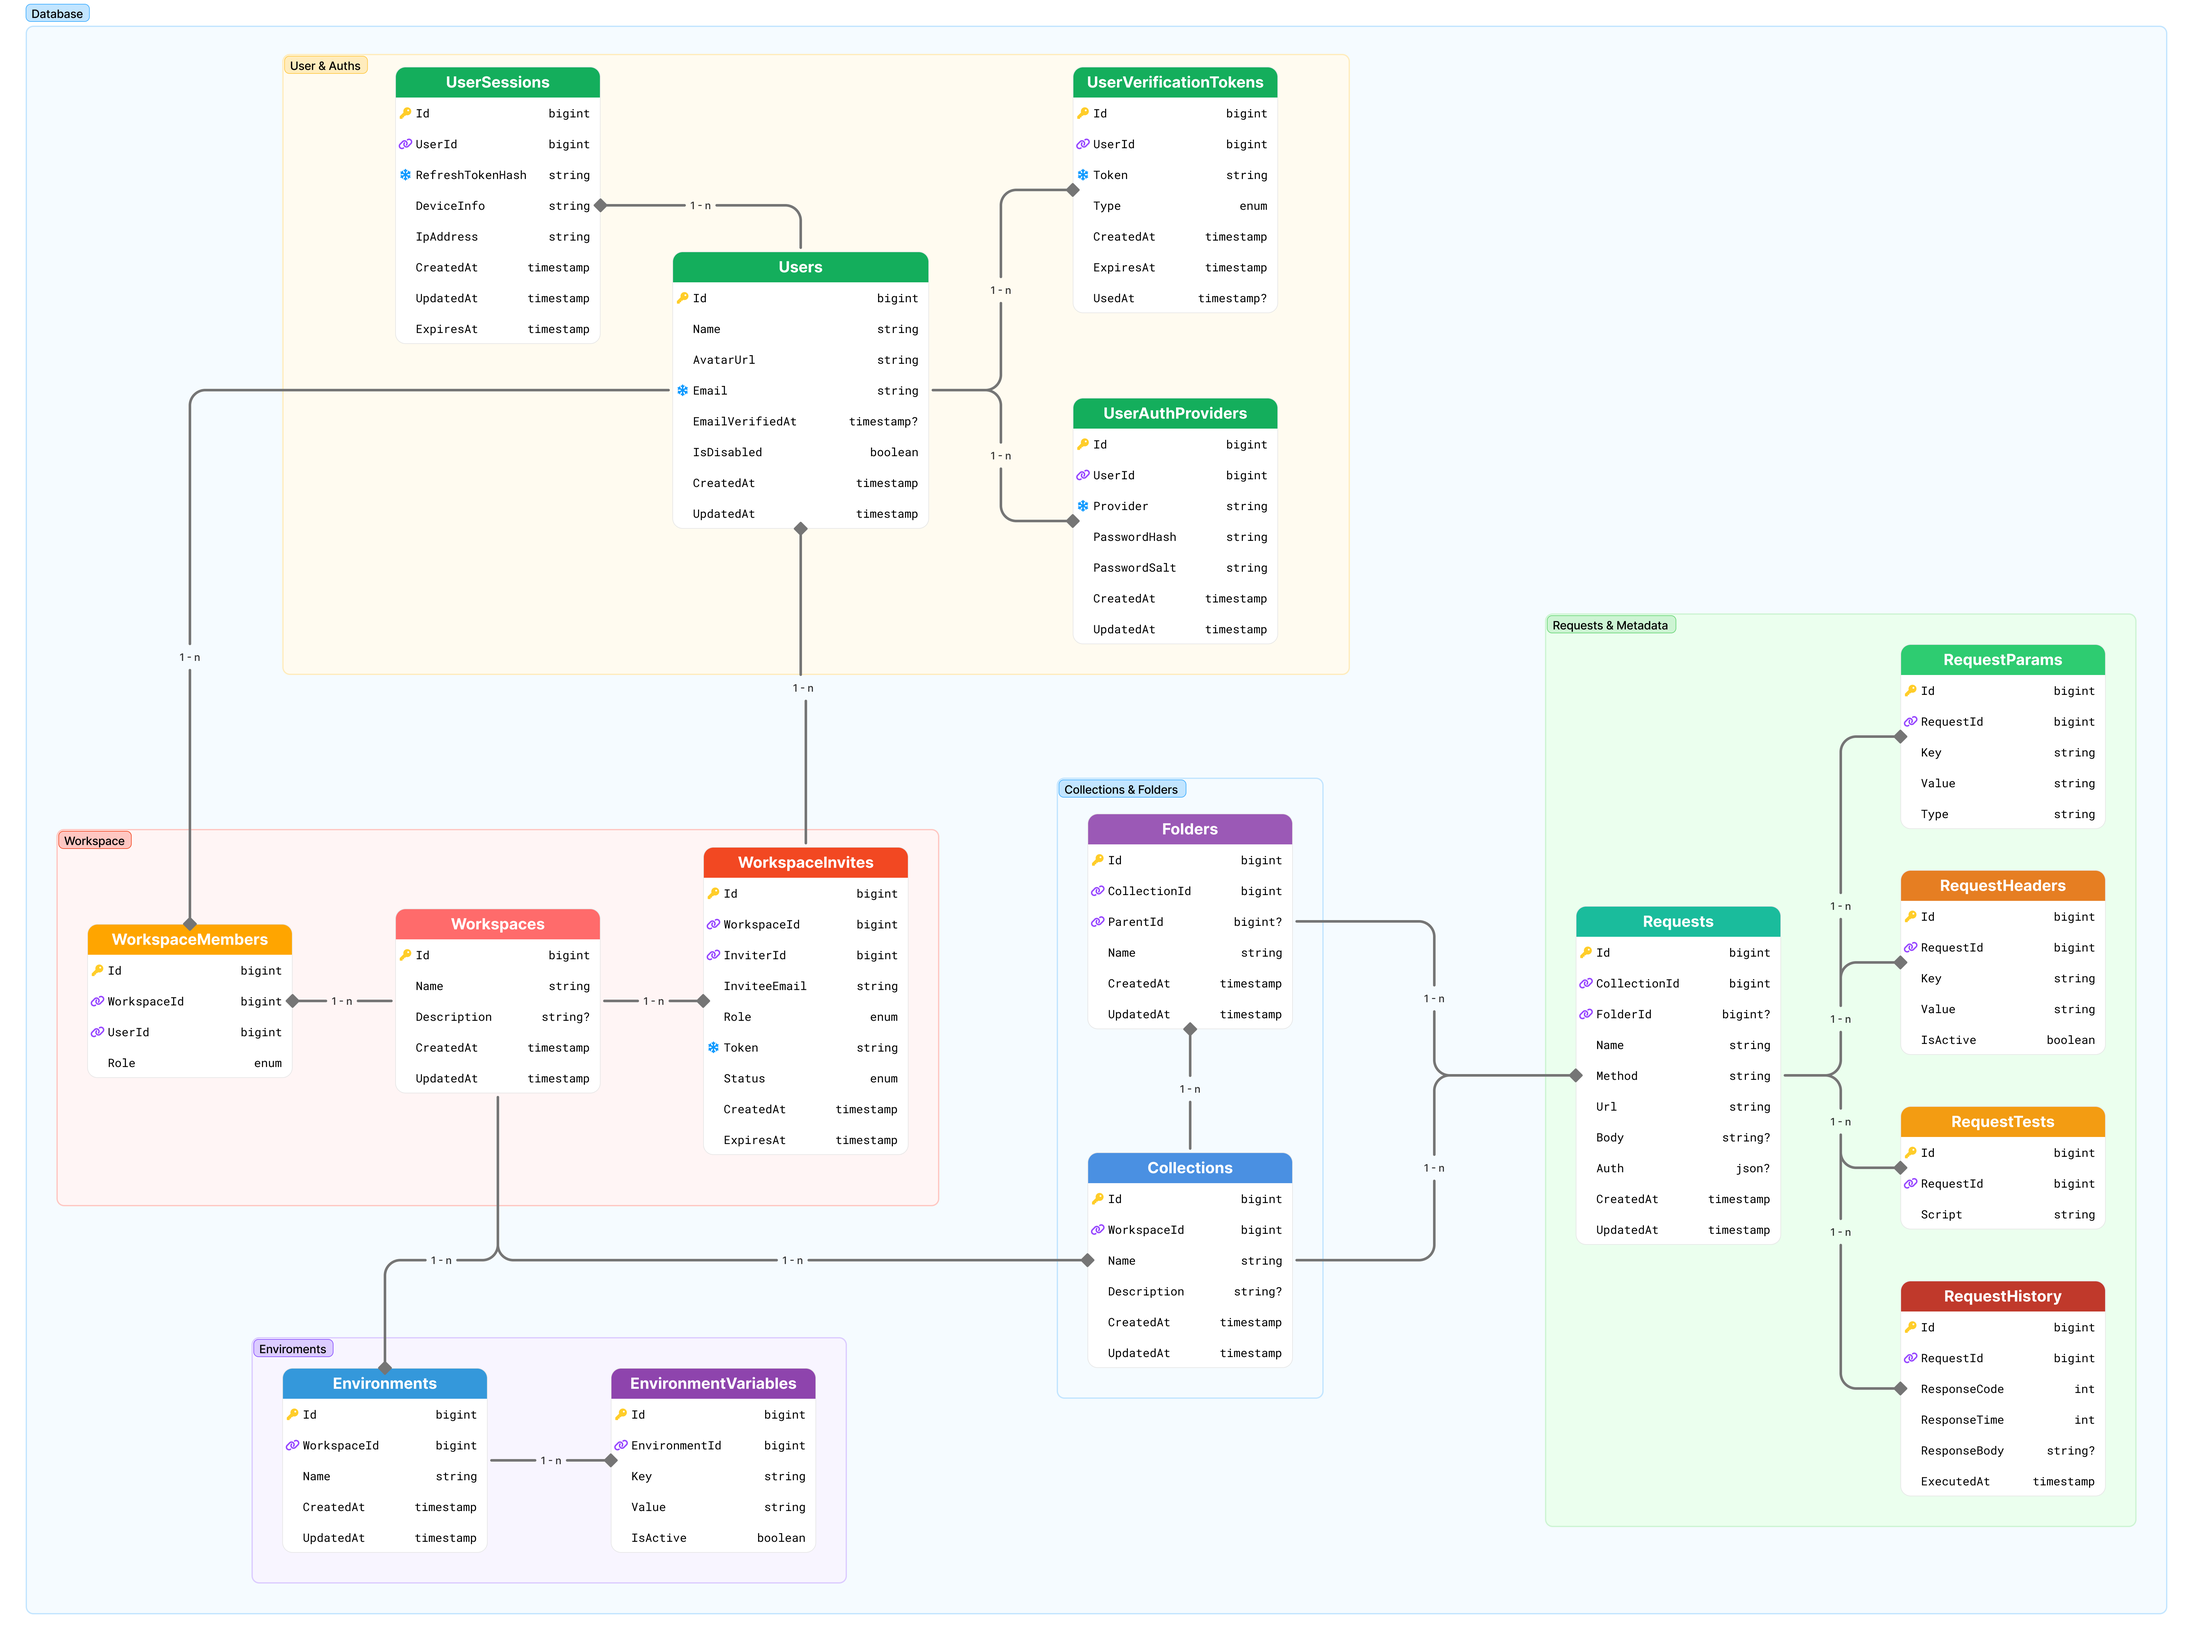
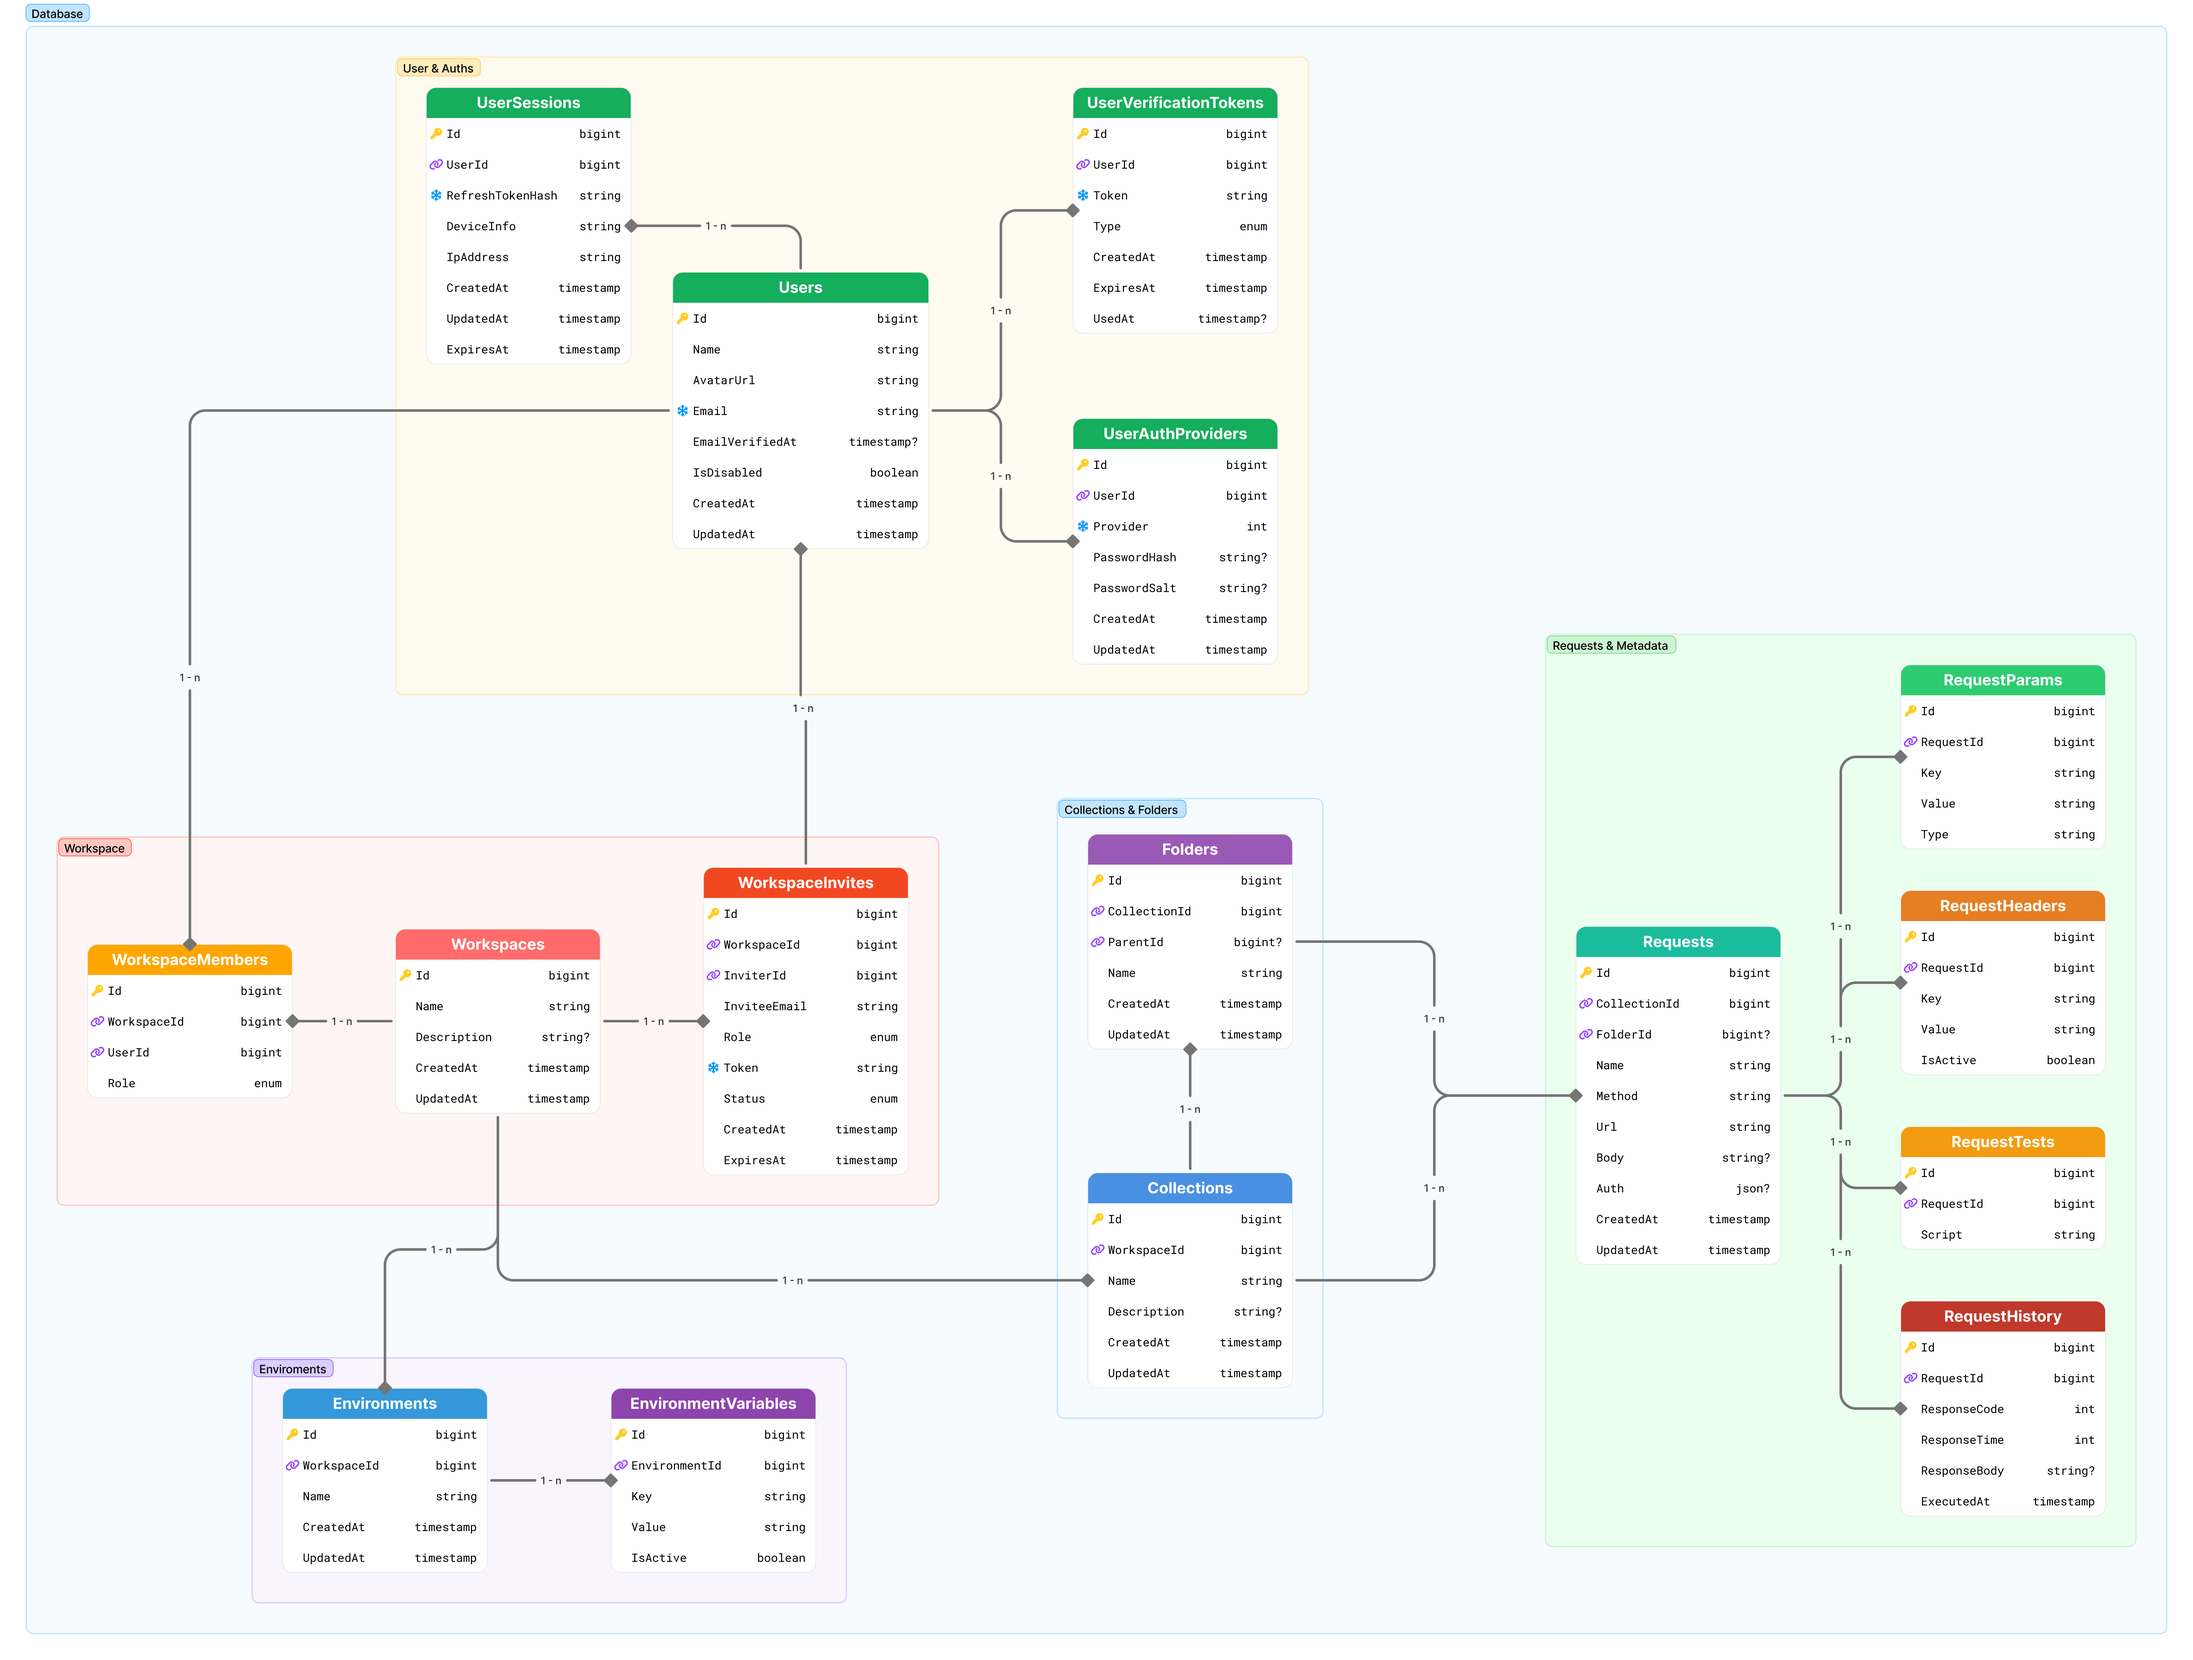
update docs

diff --git a/docs/srs/entity-models.md b/docs/srs/entity-models.md
@@ -57,7 +57,7 @@ Tài liệu này mô tả chi tiết schema cơ sở dữ liệu Neo Postman the
 - **Cột**:
   - `Id bigint` – PK.
   - `UserId bigint` – FK → `Users.Id` (NOT NULL).
-  - `Provider string` – tên provider (`Password`, `Github`, `Google`).
+  - `Provider enum` – tên provider (`Local`, `Github`, `Google`).
   - `PasswordHash string` – băm mật khẩu (đối với provider `Password`).
   - `PasswordSalt string` – muối mật khẩu.
   - `CreatedAt timestamp` – NOT NULL.

diff --git a/docs/srs/use-case-specs/UC-02_Login.md b/docs/srs/use-case-specs/UC-02_Login.md
@@ -5,7 +5,7 @@
 
 ## Điều kiện tiên quyết
 - Tài khoản tồn tại trong `Users`.
-- Có bản ghi `UserAuthProviders` tương ứng với `Provider = Password` (TODO: liệt kê đầy đủ giá trị enum).
+- Có bản ghi `UserAuthProviders` tương ứng với `Provider = Local` (TODO: liệt kê đầy đủ giá trị enum).
 
 ## Luồng chính
 1. Người dùng nhập `Email`, `Password`, thông tin thiết bị (nếu thu thập) và gửi yêu cầu.
